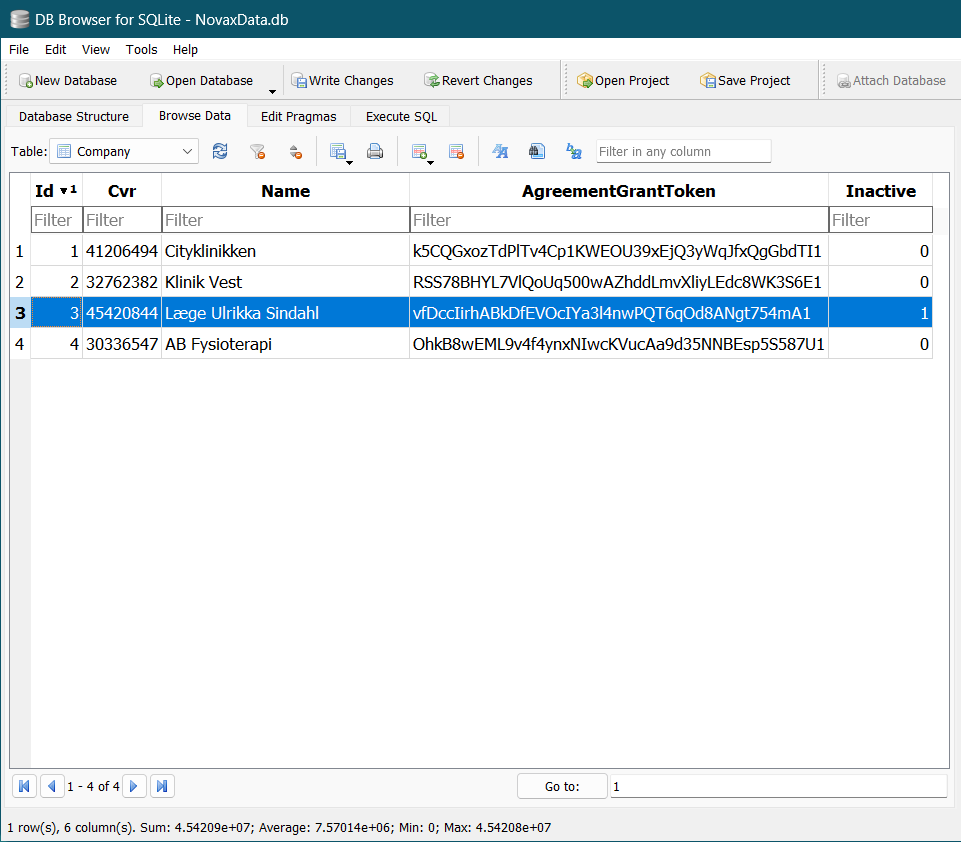
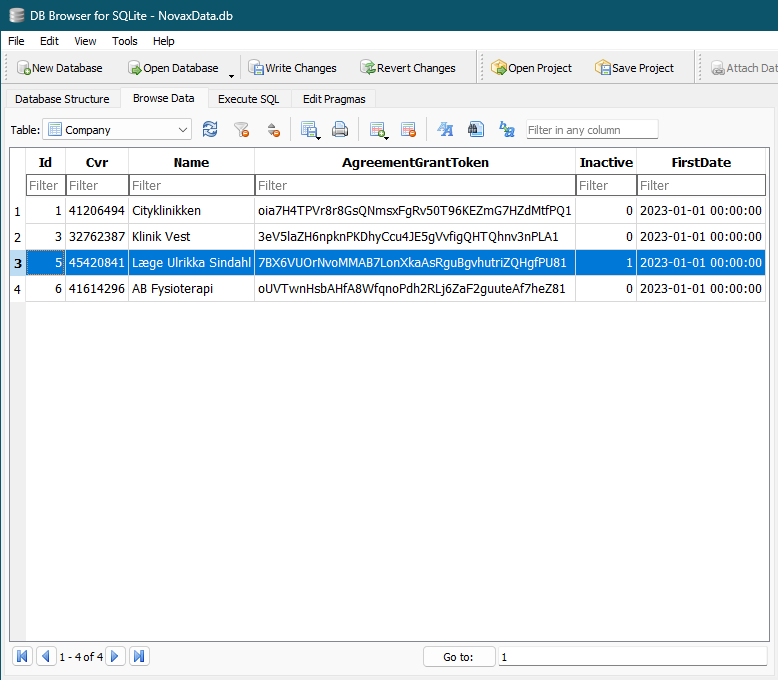
Rev 3

Changed region(s): [[0.0, 0.0, 1.0, 1.0]]

diff --git a/Configuration.md b/Configuration.md
@@ -204,12 +204,13 @@ Feltoversigt:
 | Name                | Selskabsnavn | Valgfrit | Tekst                   |
 | AgreementGrantToken | Adgangs-ID   | Ja       | 44 cifre/bogstaver      |
 | Inactive            | Status       | Nej      | Ingenting               |
-| FirstDate           | Datous       | Valgfrit | En dato eller ingenting |
+| FirstDate           | Dato         | Valgfrit | En dato eller ingenting |
 
 Resultatet skal (hvis uden selskabsnavn) ligne dette (feltet _FirstDate_ er dog ikke vist):
 
 ![Tilknyt selskab][New company]
 
+I eksemplet her vil **NovaXport** kun eksportere fakturaer fra 2. kvartal 2023 og frem.
 
 ### Tilføj server
 
@@ -226,27 +227,34 @@ Gå til en ny post og indsæt i felterne *Hostname* og *ShareName* hhv. serveren
 
 Felterne *Id* og *Inactive* vil allerede være udfyldte og må ikke ændres. 
 
+Feltet *FirstDate* kan være tomt, og **NovaXport** vil da hente fakturafiler fra det aktuelle regnskabsårs start. Ønsker man kun at hente fakturafiler fra en senere dato - fx fordi fakturaer ældre end denne dato allerede på anden vis er bogført i e-conomic - skrives datoen ind her.
+
 > **VIGTIGT**: Ændringer/tilføjelser gemmes først, når man klikker på *Write Changes* eller taster *Ctrl+S*.
 
 Feltoversigt:
 
-| Felt      | Indhold         | Udfyldes | Indtastes |
-| :-------- | :-------------- | :------- | :-------- |
-| Id        | Løbenummer      | Nej      | Ingenting |
-| Hostname  | Servernavn      | Ja       | Tekst     |
-| ShareName | Delt mappe-navn | Ja       | Tekst     |
-| Inactive  | Status          | Nej      | Ingenting |
+| Felt      | Indhold         | Udfyldes | Indtastes               |
+| :-------- | :-------------- | :------- | :---------------------- |
+| Id        | Løbenummer      | Nej      | Ingenting               |
+| Hostname  | Servernavn      | Ja       | Tekst                   |
+| ShareName | Delt mappe-navn | Ja       | Tekst                   |
+| Inactive  | Status          | Nej      | Ingenting               |
+| FirstDate | Dato            | Valgfrit | En dato eller ingenting |
 
 Resultatet skal ligne dette:
 
 ![Tilknyt server][New server]
+
+I eksemplet her vil **NovaXport** kun hente fakturafiler fra 4. kvartal 2023 og senere.
+
+> Når **NovaXport** kører, vil feltet *FirstDate* løbende blive opdateret med den seneste dato på de hentede fakturafiler.
 
 
 ### Justér tidsplan
 
 Når **NovaXport** tjenesten kører, sker det efter en tidsplan. Efter hver kørsel ser den i tidsplanen, hvor mange minutters pause, den skal holde, før næste kørsel.
 
-Som udgangspunkt er oprettet 24 timeintervaller, hvor pausen er sat til 15 minutter fra kl. 06.00.
+Som udgangspunkt er oprettet 24 timeintervaller, hvor pausen er sat til 15 minutter fra kl. 07.00 frem til aften.
 
 Både tidsintervaller og pauser kan justeres til det aktuelle behov, og tidsplanen kan helt eller delvist sættes til kun at være aktiv på hverdage.
 
@@ -265,12 +273,12 @@ Feltoversigt:
 | Felt      | Indhold     | Udfyldes | Indtastes                    |
 | :-------- | :---------- | :------- | :--------------------------- |
 | StartTime | Dato og tid | Ja       | En dato og ønsket starttid   |
-| Interval  | Minutter    | Ja       | 0 eller et positivt tal               |
+| Interval  | Minutter    | Ja       | 0 eller et positivt tal      |
 | Weekend   | 0 eller 1   | Ja       | 1 for ingen kørsel i weekend |
 
 > Fra feltet *StartTime* læses kun tidsdelen, men undlad alligevel at indtaste andre datoer end 0001-01-01.
 
-Standardtidsplanen ser således ud:
+Standardtidsplanen kan se således ud:
 
 ![Tidsplan][New schedule]
 
